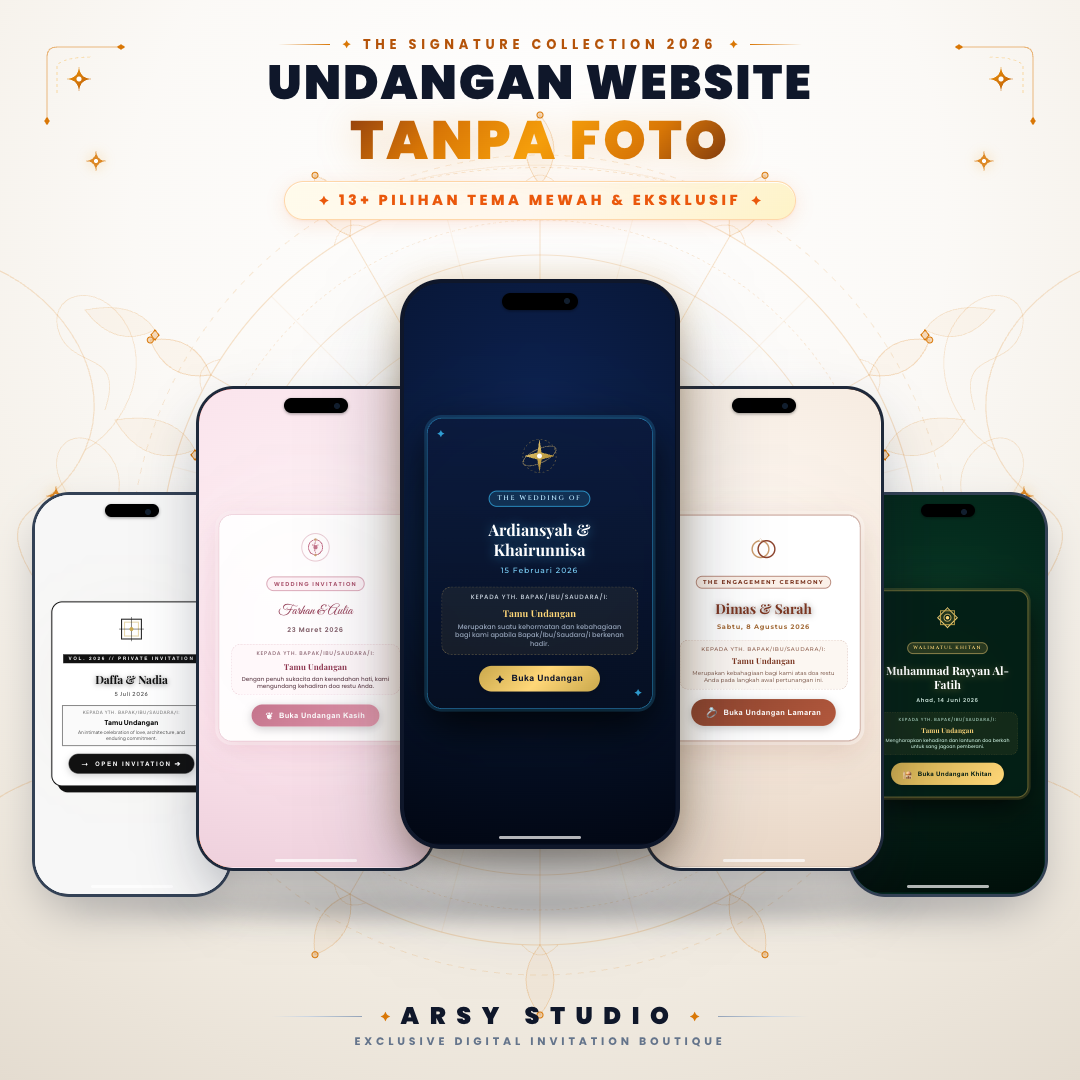
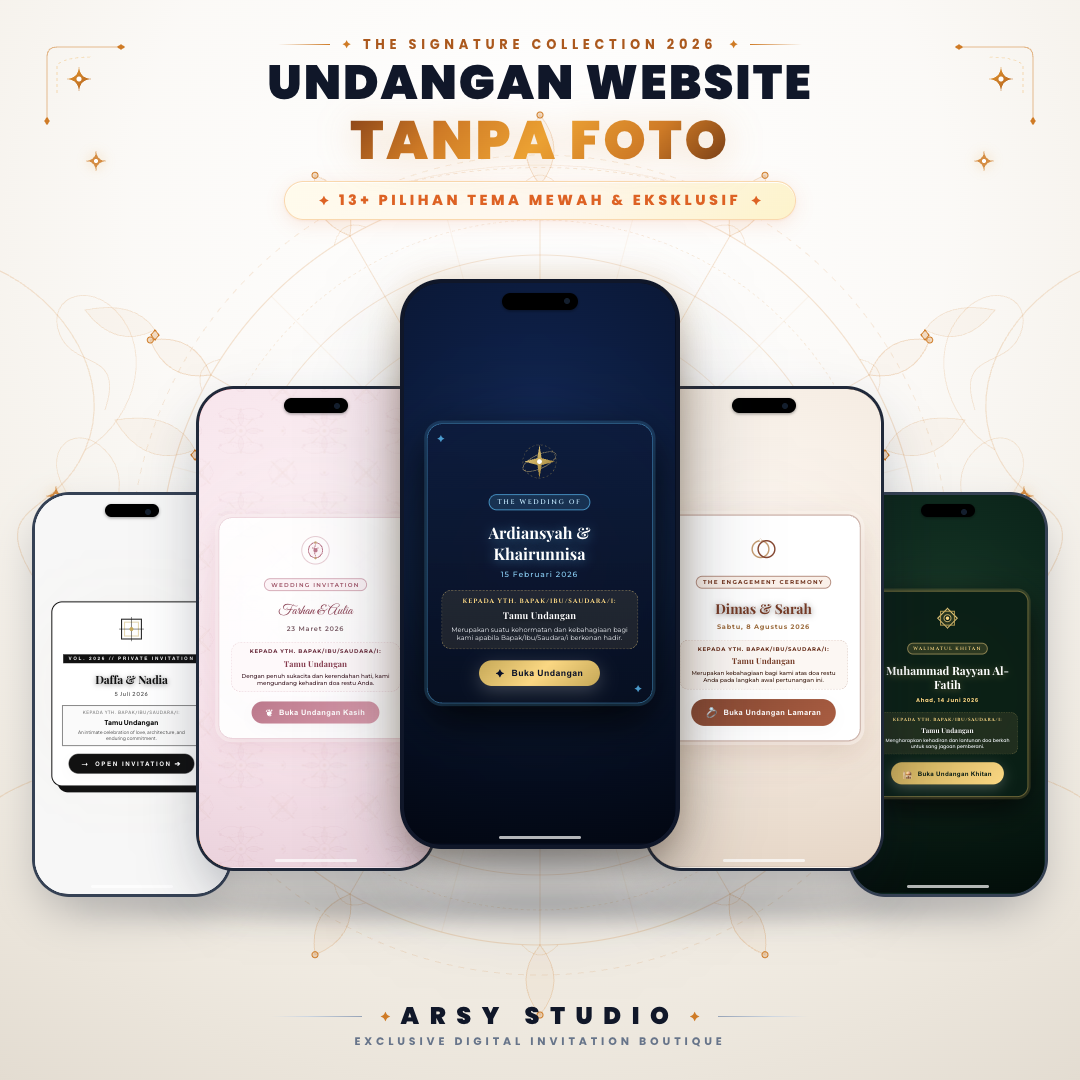
chore: update banner_utama.png and enhance cover contrast for showcase themes

diff --git a/src/components/InvitationCover.css b/src/components/InvitationCover.css
@@ -128,18 +128,32 @@
   font-family: 'Montserrat', sans-serif;
 }
 .cover-card-vega .cover-guest-box {
-  background: rgba(201, 168, 76, 0.08);
-  border: 1px dashed rgba(255, 215, 120, 0.4);
+  background: rgba(201, 168, 76, 0.12);
+  border: 1px dashed rgba(255, 215, 120, 0.5);
   border-radius: 14px;
 }
-.cover-card-vega .cover-guest-name {
+.cover-card-vega .cover-guest-to {
   color: #ffd778;
+  font-family: 'Cinzel', serif;
+  font-size: 10px;
+  font-weight: 700;
+  letter-spacing: 0.16em;
+}
+.cover-card-vega .cover-guest-name {
+  color: #ffffff;
   font-family: 'Playfair Display', serif;
+  font-size: 22px;
+  text-shadow: 0 1px 6px rgba(0, 0, 0, 0.6);
+}
+.cover-card-vega .cover-guest-note {
+  color: #f1f5f9;
+  font-size: 13px;
+  line-height: 1.5;
 }
 .cover-card-vega .cover-open-btn {
   background: linear-gradient(135deg, #c9a84c 0%, #ffd778 50%, #c9a84c 100%);
   color: #070f29;
-  font-weight: 700;
+  font-weight: 800;
   box-shadow: 0 8px 24px rgba(201, 168, 76, 0.4);
 }
 
@@ -195,9 +209,20 @@
   border: 1.5px dashed rgba(196, 116, 140, 0.35);
   border-radius: 16px;
 }
-.cover-card-lyra .cover-guest-to { color: #8e6874; }
+.cover-card-lyra .cover-guest-to {
+  color: #70263c;
+  font-size: 10px;
+  font-weight: 700;
+  letter-spacing: 0.14em;
+  text-transform: uppercase;
+}
 .cover-card-lyra .cover-guest-name { color: #8c324c; font-family: 'Playfair Display', serif; }
-.cover-card-lyra .cover-guest-note { color: #6b4d57; }
+.cover-card-lyra .cover-guest-note {
+  color: #3d1421;
+  font-size: 13px;
+  line-height: 1.5;
+  font-weight: 500;
+}
 .cover-card-lyra .cover-open-btn {
   background: linear-gradient(135deg, #c4748c 0%, #e298ad 100%);
   color: #ffffff;
@@ -504,19 +529,39 @@
   color: #c9e2d7;
   font-weight: 600;
 }
+.cover-card-sirius .cover-date {
+  color: #ffd778;
+  font-weight: 700;
+  text-shadow: 0 1px 4px rgba(0, 0, 0, 0.5);
+}
 .cover-card-sirius .cover-guest-box {
-  background: rgba(201, 168, 76, 0.08);
-  border: 1px dashed rgba(201, 168, 76, 0.4);
+  background: rgba(201, 168, 76, 0.12);
+  border: 1px dashed rgba(255, 215, 120, 0.5);
   border-radius: 14px;
 }
-.cover-card-sirius .cover-guest-to { color: #a3cbb8; }
-.cover-card-sirius .cover-guest-name { color: #ffd778; font-family: 'Playfair Display', serif; }
-.cover-card-sirius .cover-guest-note { color: #bde0cf; }
+.cover-card-sirius .cover-guest-to {
+  color: #ffd778;
+  font-family: 'Cinzel', serif;
+  font-size: 10px;
+  font-weight: 700;
+  letter-spacing: 0.16em;
+}
+.cover-card-sirius .cover-guest-name {
+  color: #ffffff;
+  font-family: 'Playfair Display', serif;
+  font-size: 22px;
+  text-shadow: 0 1px 6px rgba(0, 0, 0, 0.7);
+}
+.cover-card-sirius .cover-guest-note {
+  color: #f1f5f9;
+  font-size: 13px;
+  line-height: 1.5;
+}
 .cover-card-sirius .cover-open-btn {
   background: linear-gradient(135deg, #c9a84c 0%, #ffd778 100%);
   color: #021c13;
   font-weight: 800;
-  box-shadow: 0 8px 24px rgba(201, 168, 76, 0.35);
+  box-shadow: 0 8px 24px rgba(201, 168, 76, 0.45);
 }
 
 
@@ -607,9 +652,20 @@
   border: 1.5px dashed rgba(140, 67, 45, 0.35);
   border-radius: 14px;
 }
-.cover-card-spica .cover-guest-to { color: #8c5d4b; }
+.cover-card-spica .cover-guest-to {
+  color: #6b2612;
+  font-size: 10px;
+  font-weight: 700;
+  letter-spacing: 0.14em;
+  text-transform: uppercase;
+}
 .cover-card-spica .cover-guest-name { color: #7a3520; font-family: 'Playfair Display', serif; }
-.cover-card-spica .cover-guest-note { color: #6b4334; }
+.cover-card-spica .cover-guest-note {
+  color: #3a150a;
+  font-size: 13px;
+  line-height: 1.5;
+  font-weight: 500;
+}
 .cover-card-spica .cover-open-btn {
   background: linear-gradient(135deg, #8c432d 0%, #b2583d 100%);
   color: #ffffff;
